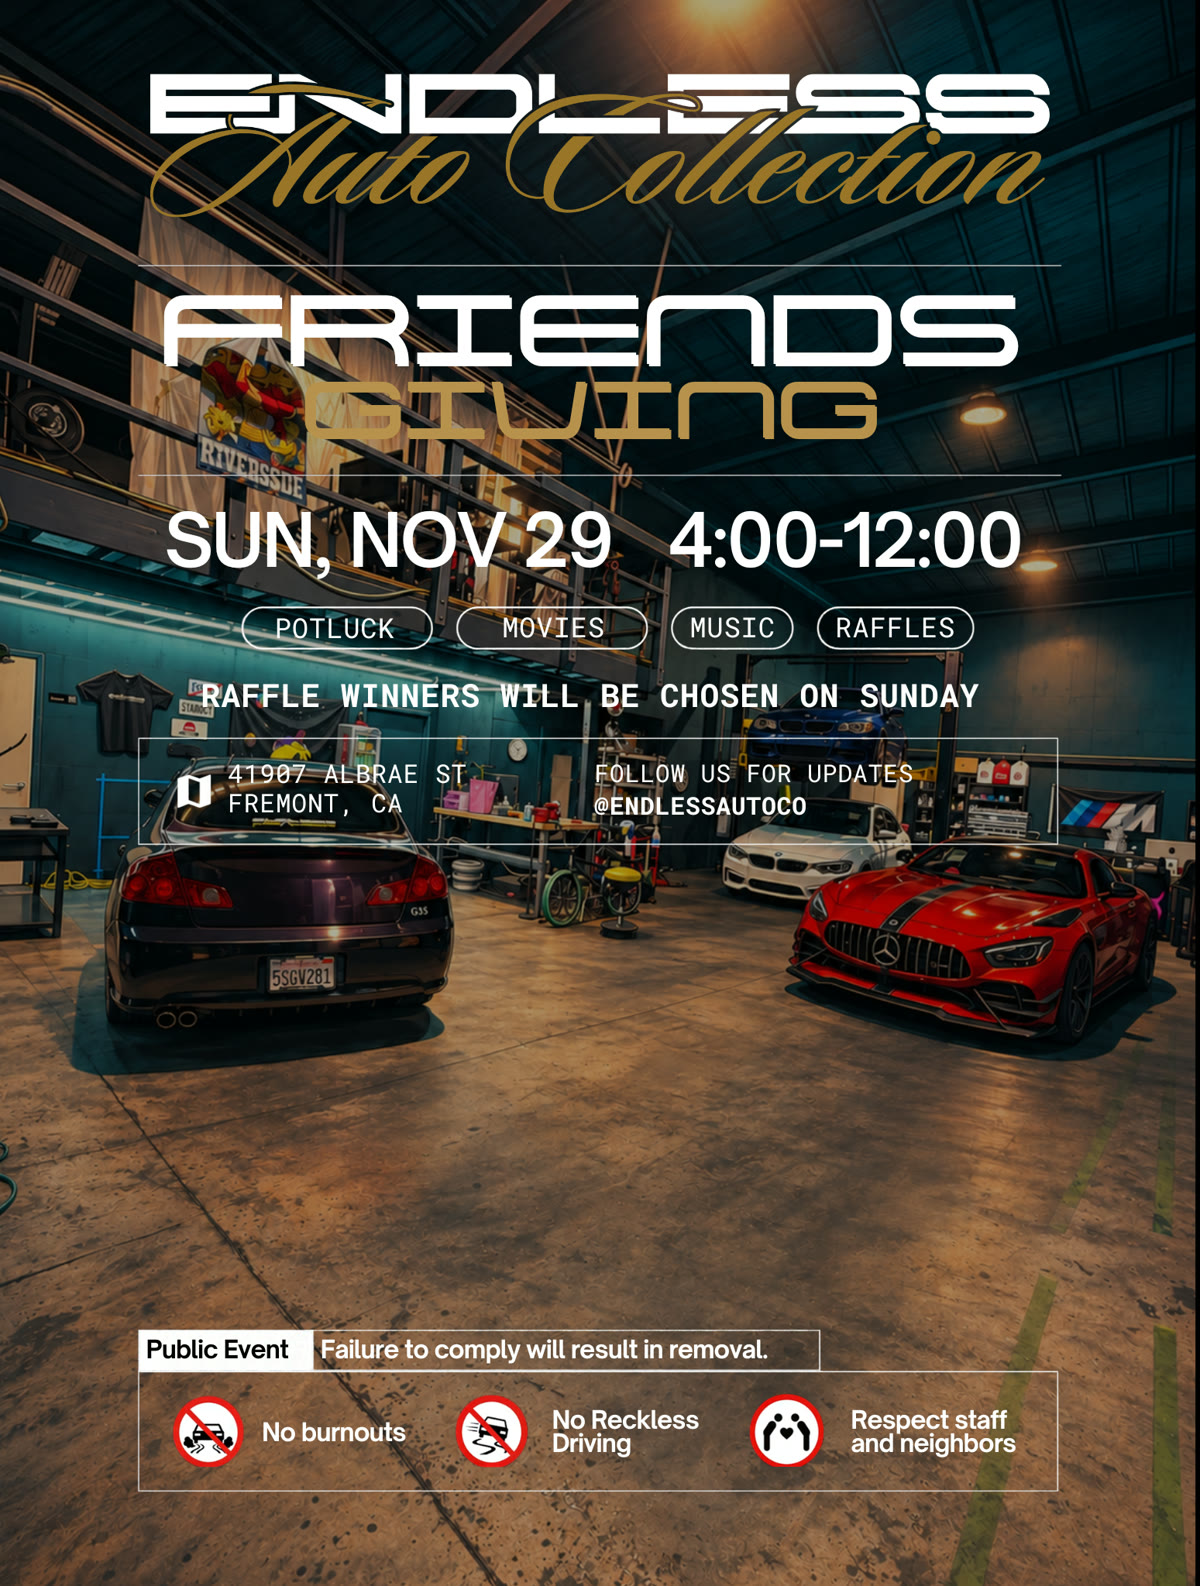
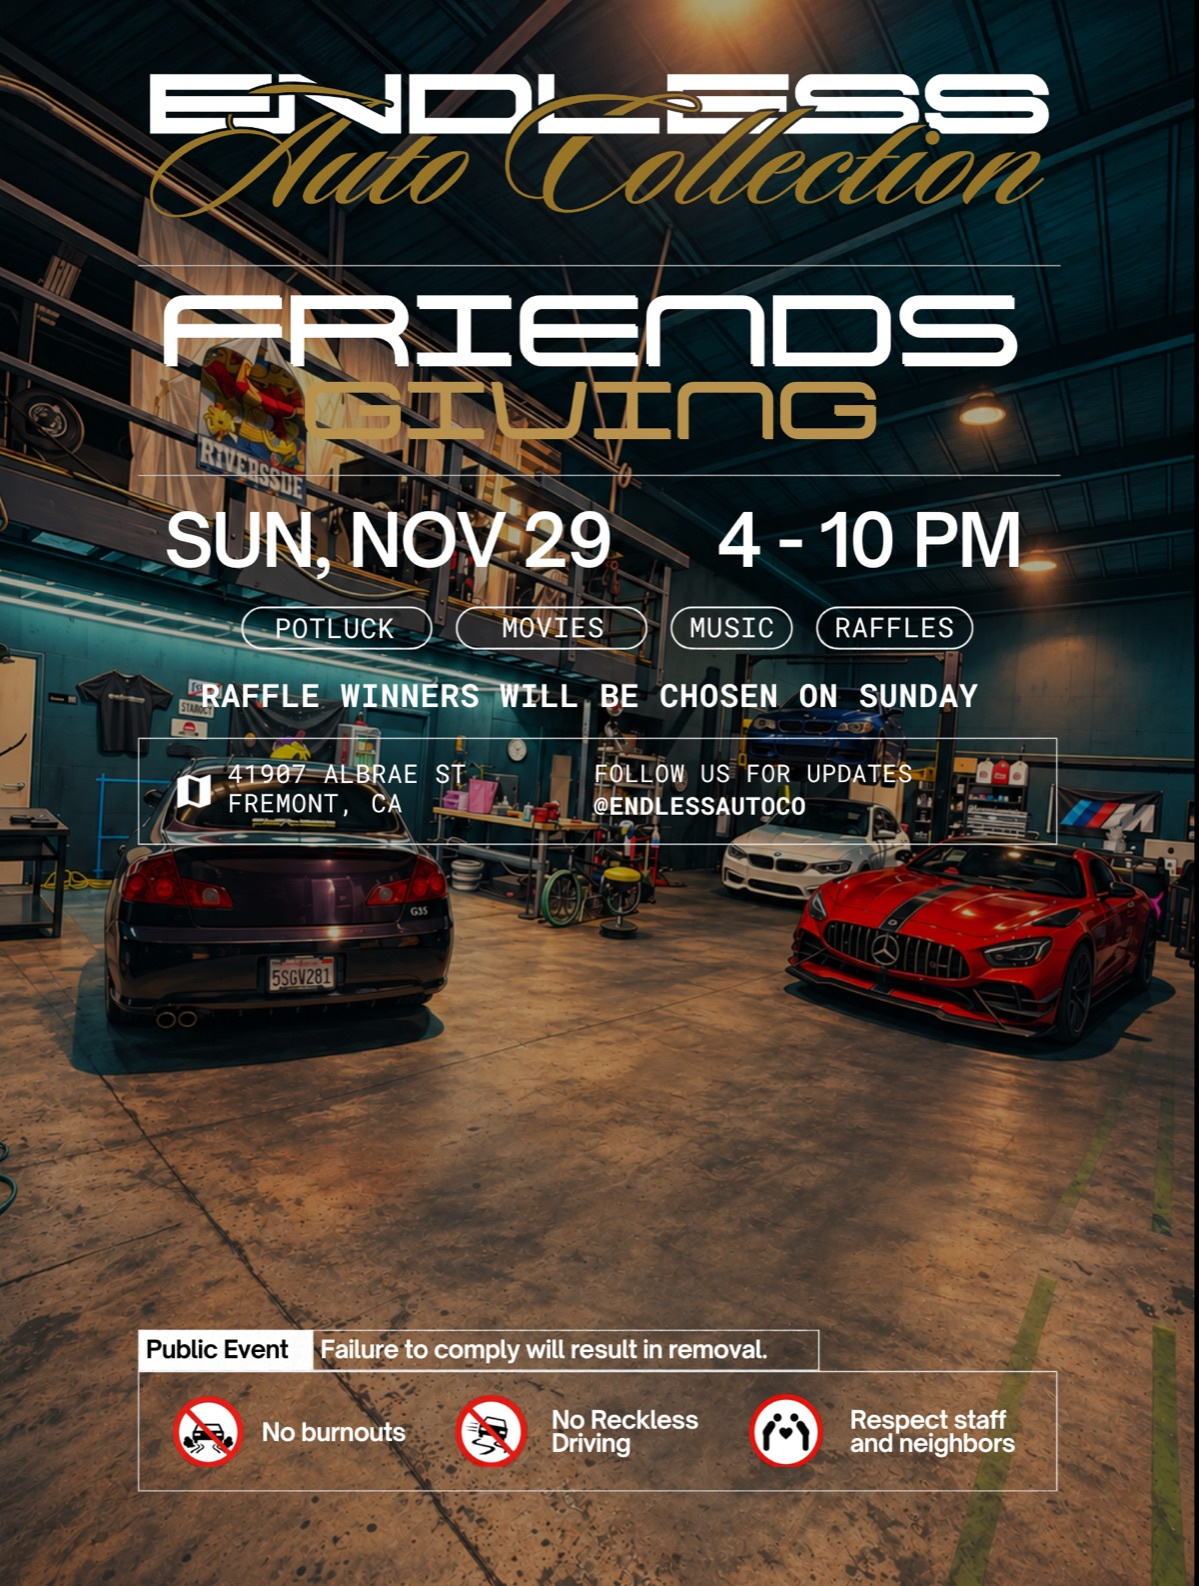
Events: Sunday page and images match updated flyer (4-10 PM), link RSVP page, add to sitemap

Changed region(s): [[0.5555, 0.309, 0.8641, 0.3707]]

diff --git a/friendsgiving-sun.html b/friendsgiving-sun.html
@@ -16,11 +16,11 @@
 <link rel="icon" type="image/x-icon" href="/images/favicon.ico">
 <link rel="icon" type="image/png" sizes="32x32" href="/images/favicon/favicon-32.png">
 <link rel="apple-touch-icon" sizes="180x180" href="/images/favicon/apple-touch-icon.png">
-<meta name="description" content="Sunday, Nov 29, 4-12 PM in Fremont. Potluck, movies, music, and a raffle at Endless Auto Collection.">
+<meta name="description" content="Sunday, Nov 29, 4-10 PM in Fremont. Potluck, movies, music, and a raffle at Endless Auto Collection.">
 <meta property="og:type" content="website">
 <meta property="og:site_name" content="Endless Auto Collection">
 <meta property="og:title" content="Sunday Friendsgiving: Endless Giving">
-<meta property="og:description" content="Sunday, Nov 29, 4-12 PM. Potluck, movies, music, and a raffle.">
+<meta property="og:description" content="Sunday, Nov 29, 4-10 PM. Potluck, movies, music, and a raffle.">
 <meta property="og:url" content="https://www.endlessautocollection.com/friendsgiving-sun">
 <meta property="og:image" content="https://www.endlessautocollection.com/images/friendsgiving-sun-preview.jpg">
 <meta property="og:image:width" content="1200">
@@ -123,7 +123,7 @@ html{scroll-behavior:smooth}#potluck{scroll-margin-top:5rem}.pk-acts{display:fle
 .rv-chip i{font-style:normal;width:1.5rem;height:1.5rem;border-radius:50%;background:#1d1a10;border:1px solid rgba(212,175,55,.4);color:#f0c869;display:grid;place-items:center;font-size:.75rem;font-weight:700}.rv-empty{margin:0;color:#8a8a93;font-size:.9rem}
 .gl{padding:1.1rem 1.2rem}.rv-sum{display:flex;flex-wrap:wrap}.gl .rv-sum{margin-top:0}.cm{margin-top:2.5rem}
 </style>
-<script type="application/ld+json">{"@context":"https://schema.org","@type":"Event","name":"Sunday Friendsgiving: Endless Giving","description":"A potluck night at Endless Auto Collection with movies, music, and a raffle for a 1 Month Endless Membership, a Full Car Detail or $100 coupon, and an Endless T-Shirt.","startDate":"2026-11-29T16:00:00-08:00","endDate":"2026-11-30T00:00:00-08:00","eventAttendanceMode":"https://schema.org/OfflineEventAttendanceMode","eventStatus":"https://schema.org/EventScheduled","location":{"@type":"Place","name":"Endless Auto Collection","address":{"@type":"PostalAddress","streetAddress":"41907 Albrae St","addressLocality":"Fremont","postalCode":"94538","addressRegion":"CA","addressCountry":"US"}},"organizer":{"@type":"Organization","name":"Endless Auto Collection","url":"https://www.endlessautocollection.com"},"url":"https://www.endlessautocollection.com/friendsgiving-sun"}</script>
+<script type="application/ld+json">{"@context":"https://schema.org","@type":"Event","name":"Sunday Friendsgiving: Endless Giving","description":"A potluck night at Endless Auto Collection with movies, music, and a raffle for a 1 Month Endless Membership, a Full Car Detail or $100 coupon, and an Endless T-Shirt.","startDate":"2026-11-29T16:00:00-08:00","endDate":"2026-11-29T22:00:00-08:00","eventAttendanceMode":"https://schema.org/OfflineEventAttendanceMode","eventStatus":"https://schema.org/EventScheduled","location":{"@type":"Place","name":"Endless Auto Collection","address":{"@type":"PostalAddress","streetAddress":"41907 Albrae St","addressLocality":"Fremont","postalCode":"94538","addressRegion":"CA","addressCountry":"US"}},"organizer":{"@type":"Organization","name":"Endless Auto Collection","url":"https://www.endlessautocollection.com"},"url":"https://www.endlessautocollection.com/friendsgiving-sun"}</script>
 <link rel="stylesheet" href="/css/tailwind.css">
 </head>
 <body>
@@ -171,7 +171,7 @@ html{scroll-behavior:smooth}#potluck{scroll-margin-top:5rem}.pk-acts{display:fle
   <div class="ev-inner">
     <p class="ev-eyebrow">Public event · Endless Giving</p>
     <h1 class="hf">Friends<span class="gold">giving</span></h1>
-    <p class="ev-when hf">Sun, Nov 29 · 4–12 PM</p>
+    <p class="ev-when hf">Sun, Nov 29 · 4–10 PM</p>
     <ul class="chips"><li>Potluck</li><li>Movies</li><li>Music</li><li>Raffles</li></ul>
   </div>
 </header>
@@ -200,7 +200,7 @@ html{scroll-behavior:smooth}#potluck{scroll-margin-top:5rem}.pk-acts{display:fle
 
   <p class="sec">Details</p>
   <div class="info">
-    <div class="card"><svg class="ic" viewBox="0 0 24 24" fill="none" stroke="currentColor" stroke-width="1.7" stroke-linecap="round" stroke-linejoin="round" aria-hidden="true"><rect x="3.5" y="5" width="17" height="15.5" rx="2.5"/><path d="M3.5 10h17M8 3v4M16 3v4"/></svg><div><b>Sunday, November 29</b><span>4–12 PM</span></div></div>
+    <div class="card"><svg class="ic" viewBox="0 0 24 24" fill="none" stroke="currentColor" stroke-width="1.7" stroke-linecap="round" stroke-linejoin="round" aria-hidden="true"><rect x="3.5" y="5" width="17" height="15.5" rx="2.5"/><path d="M3.5 10h17M8 3v4M16 3v4"/></svg><div><b>Sunday, November 29</b><span>4–10 PM</span></div></div>
     <div class="card"><svg class="ic" viewBox="0 0 24 24" fill="none" stroke="currentColor" stroke-width="1.7" stroke-linecap="round" stroke-linejoin="round" aria-hidden="true"><path d="M12 21s-6.5-5.6-6.5-11a6.5 6.5 0 0 1 13 0c0 5.4-6.5 11-6.5 11Z"/><circle cx="12" cy="10" r="2.4"/></svg><div><b>41907 Albrae St, Fremont, CA</b><span><a class="underline" href="https://maps.apple.com/?q=41907+Albrae+St+Fremont+CA" target="_blank" rel="noopener noreferrer">Open in Maps</a></span></div></div>
     <a class="card cardlink" href="#potluck"><svg class="ic" viewBox="0 0 24 24" fill="none" stroke="currentColor" stroke-width="1.7" stroke-linecap="round" stroke-linejoin="round" aria-hidden="true"><circle cx="10" cy="13" r="5.5"/><circle cx="10" cy="13" r="2.6"/><path d="M3 3v5.5a1.8 1.8 0 0 0 1.8 1.8M6.6 3v7.3M4.8 10.3V12"/><path d="M20.5 3c-1.6 0-2.8 2-2.8 4.6 0 1.6.9 2.5 1.8 2.7V21"/></svg><div><b>Bring a dish to share</b><span>Potluck style. Tap to see what's taken.</span></div></a>
     <div class="card"><svg class="ic" viewBox="0 0 24 24" fill="none" stroke="currentColor" stroke-width="1.7" stroke-linecap="round" stroke-linejoin="round" aria-hidden="true"><path d="M8.5 3.5 3 6.5l2 4 2.5-1V20.5h9V9.5l2.500 1 2-4-5.500-3a3.500 3.500 0 0 1-7 0Z"/></svg><div><b>Dress code: GTA fashion</b></div></div>

diff --git a/events.html b/events.html
@@ -119,6 +119,7 @@ dialog.ev-lb::backdrop{background:rgba(0,0,0,.92)}
         <h2 class="heading-font text-2xl mt-2">Friendsgiving</h2>
         <p class="text-white/70 mt-2">4 to 10 PM · 41907 Albrae St, Fremont</p>
         <div class="flex flex-wrap gap-2 mt-4"><span class="chip">POTLUCK</span><span class="chip">MOVIES</span><span class="chip">MUSIC</span><span class="chip">RAFFLES</span></div>
+        <a class="btn inline-block mt-5 px-6 py-2.5 rounded-full text-sm" href="/friendsgiving-sun">RSVP and potluck sign-up</a>
         <p class="text-white/50 text-sm mt-4">Raffle winners are chosen Sunday. Follow <a class="text-[#f0c869]" href="https://www.instagram.com/endlessautoco/" target="_blank" rel="noopener noreferrer">@endlessautoco</a> for updates.</p>
       </div>
     </article>
